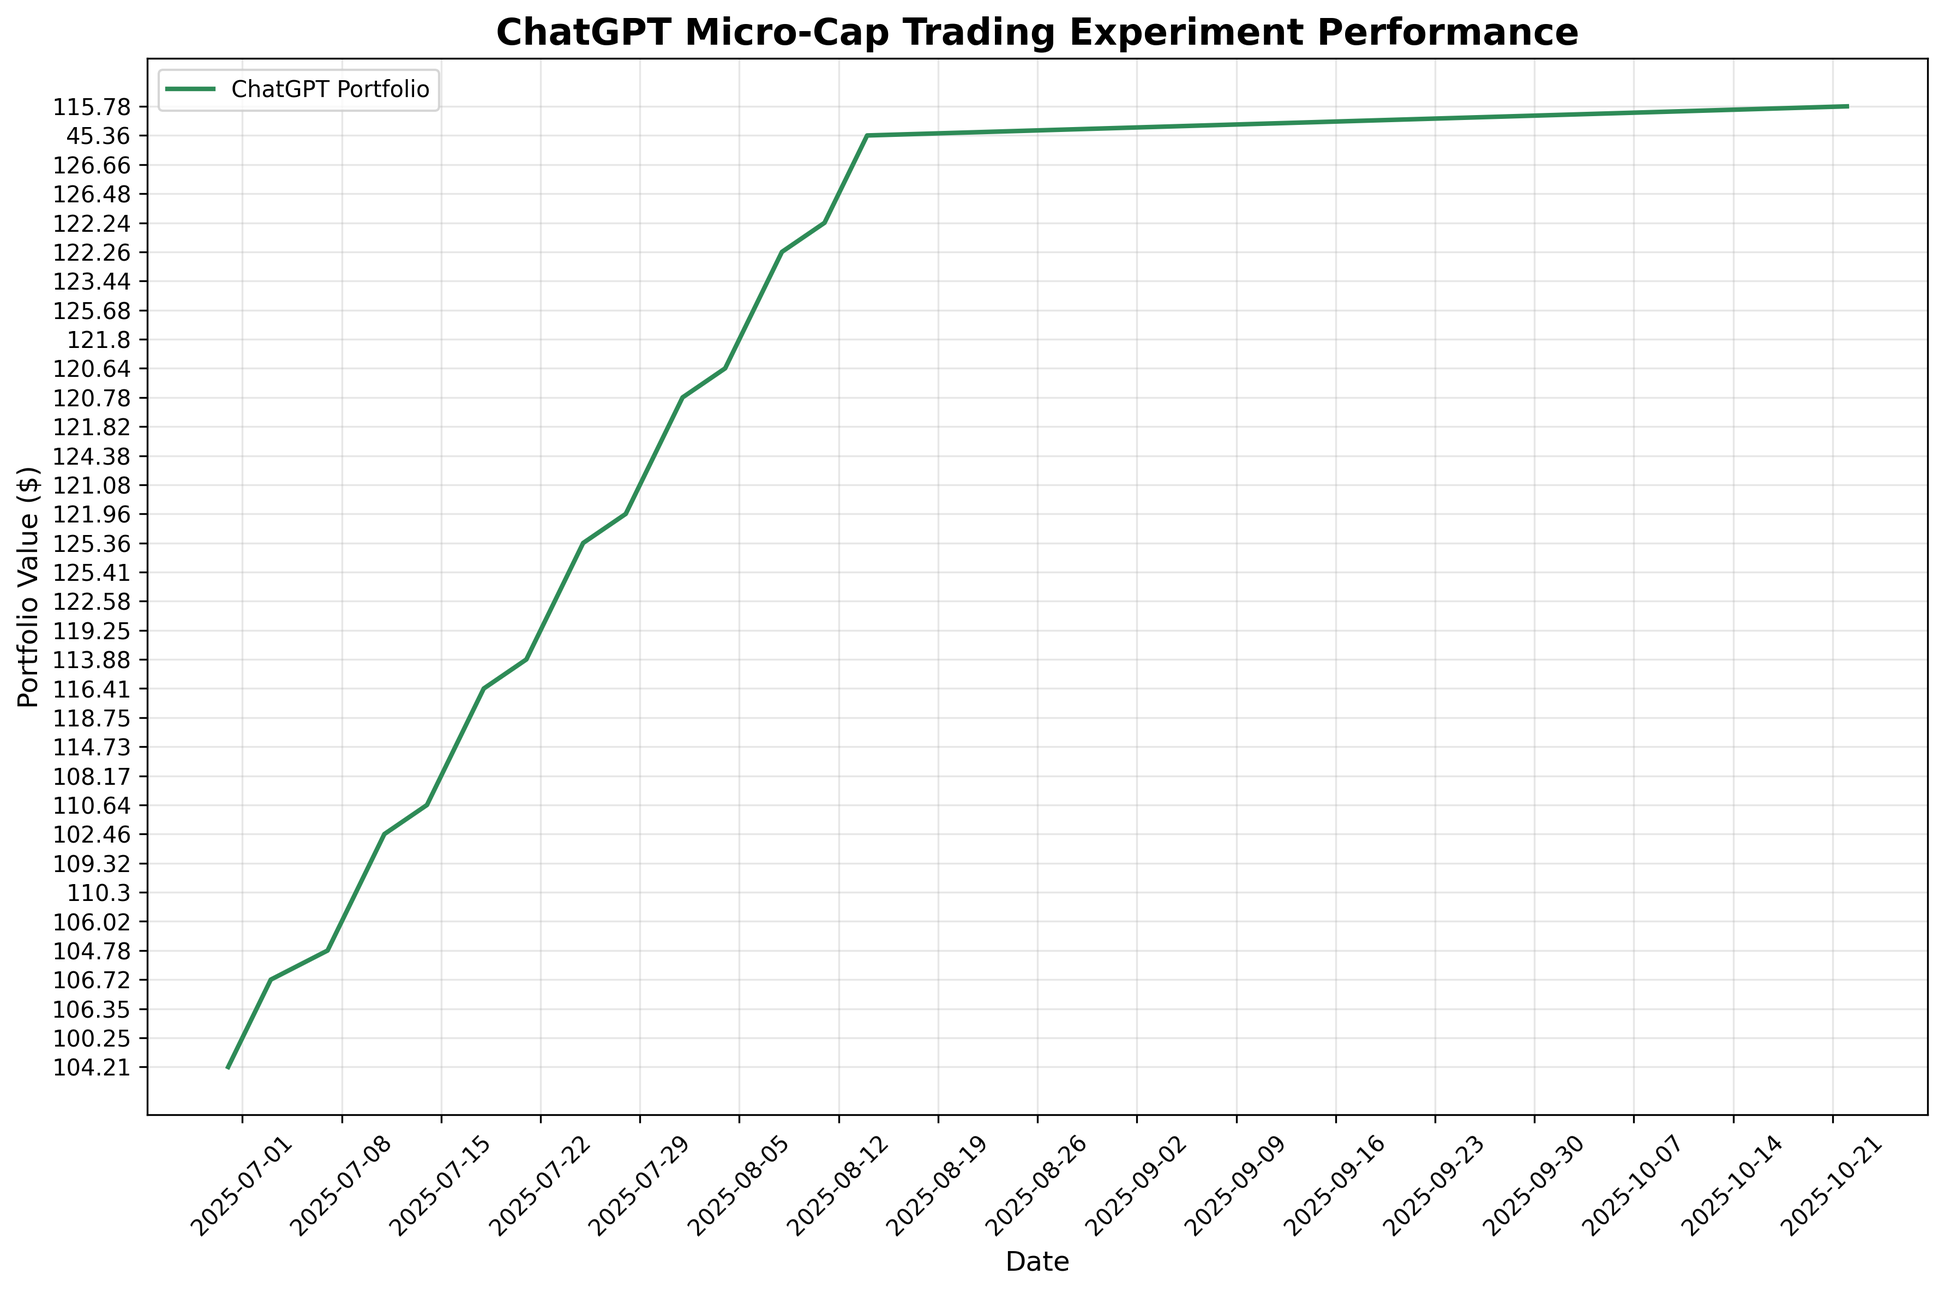
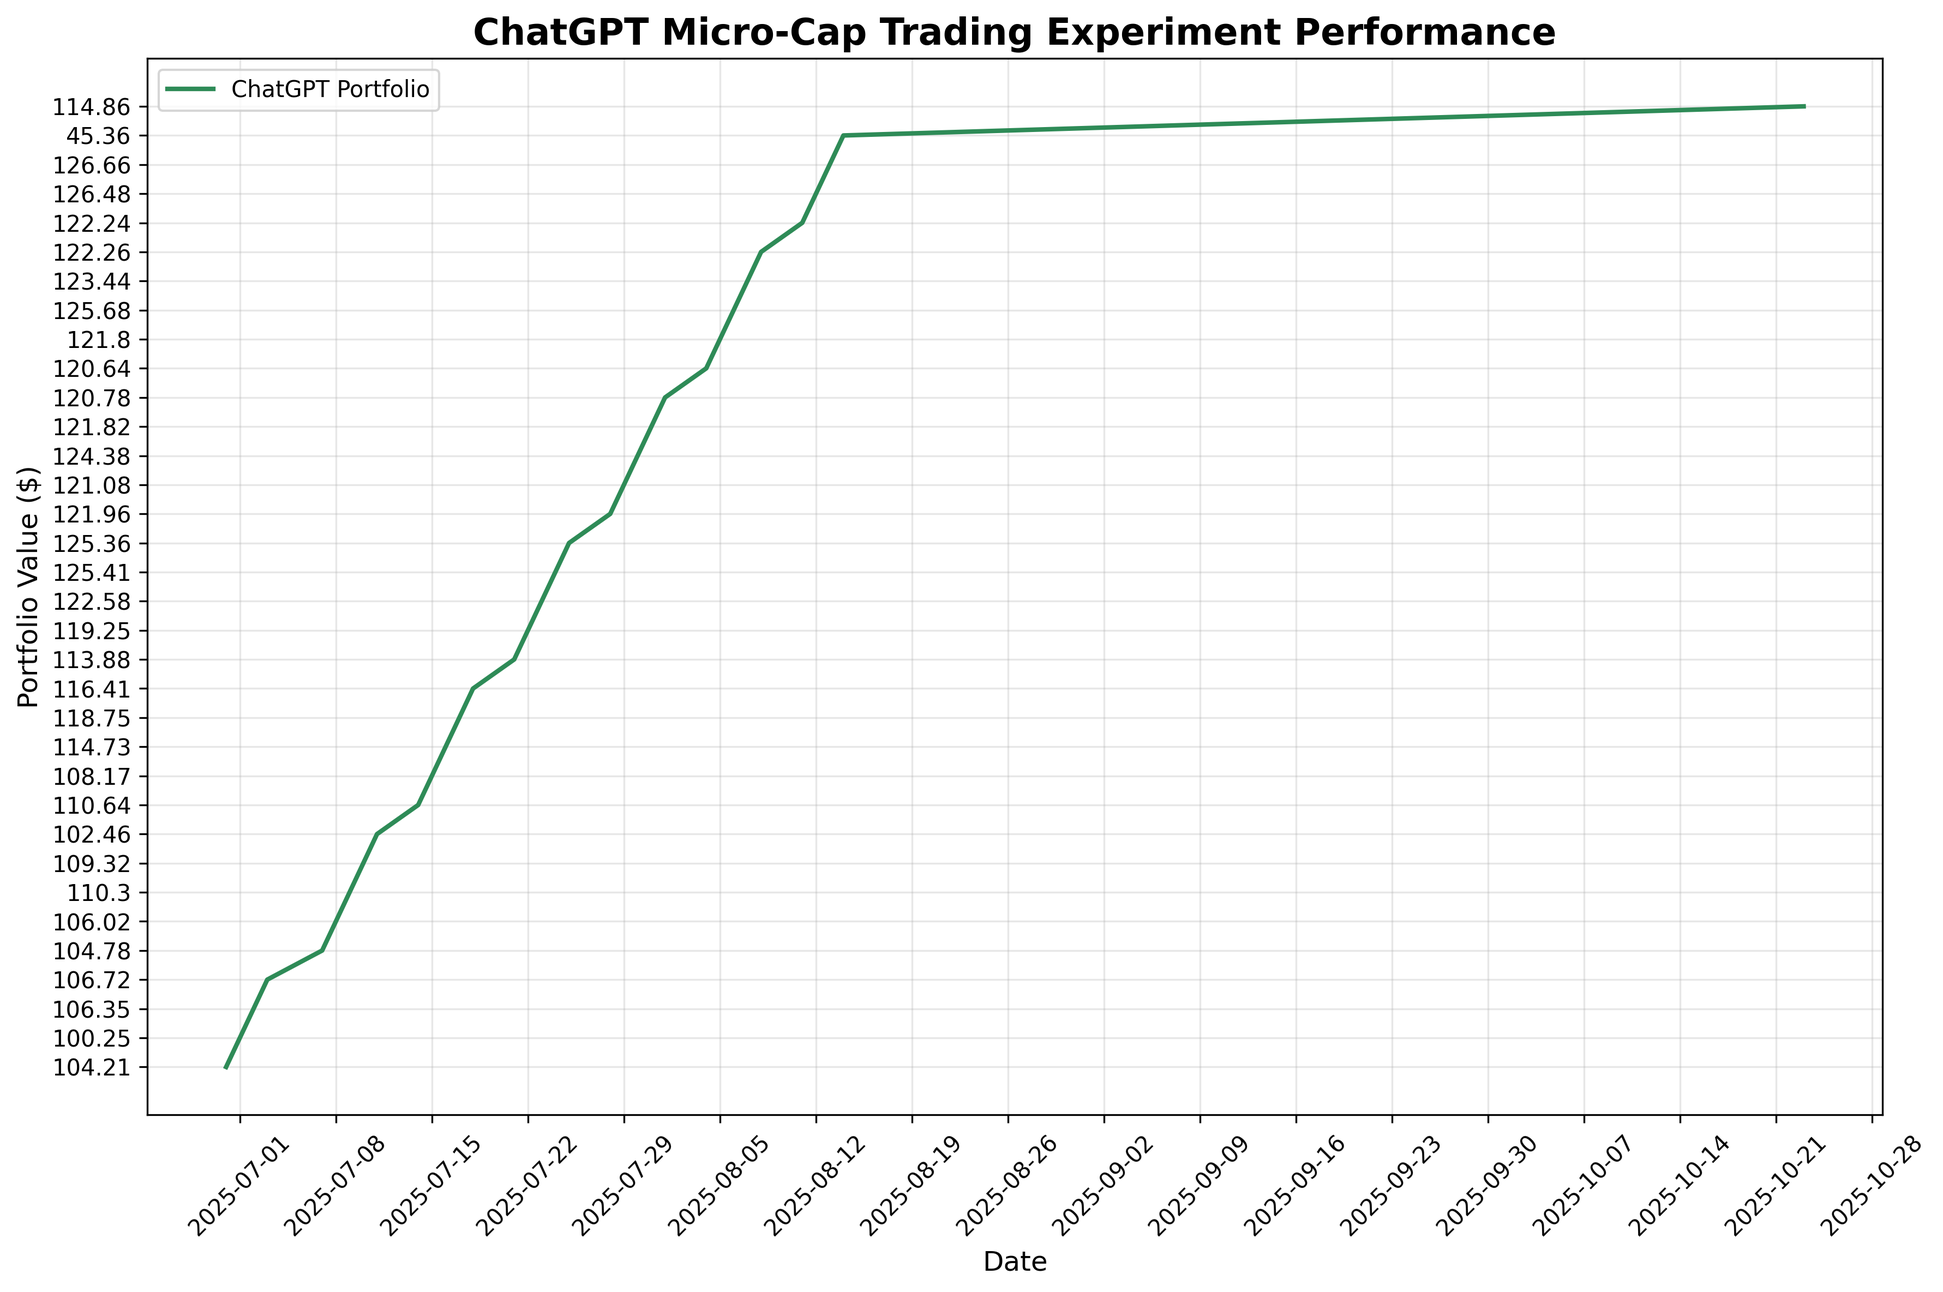
deploy: e15cad030d70fb3fbb51f9df6e22fa70c2f175c0

diff --git a/index.html b/index.html
@@ -105,7 +105,7 @@
                 <div class="stat-label">Total Trades</div>
             </div>
             <div class="stat-card">
-                <div class="stat-value" id="last-updated">2025-10-22</div>
+                <div class="stat-value" id="last-updated">2025-10-23</div>
                 <div class="stat-label">Last Updated</div>
             </div>
         </div>
@@ -160,7 +160,7 @@
     
     <script>
         // Portfolio data
-        const portfolioData = JSON.parse("[{&quot;Date&quot;: &quot;2025-08-11&quot;, &quot;Ticker&quot;: &quot;ABEO&quot;, &quot;Shares&quot;: 4.0, &quot;Buy Price&quot;: 5.77, &quot;Cost Basis&quot;: 23.08, &quot;Stop Loss&quot;: 4.9, &quot;Current Price&quot;: 6.28, &quot;Total Value&quot;: 25.12, &quot;PnL&quot;: 2.04, &quot;Action&quot;: &quot;HOLD&quot;, &quot;Cash Balance&quot;: NaN, &quot;Total Equity&quot;: NaN}, {&quot;Date&quot;: &quot;2025-08-11&quot;, &quot;Ticker&quot;: &quot;ACTU&quot;, &quot;Shares&quot;: 6.0, &quot;Buy Price&quot;: 5.75, &quot;Cost Basis&quot;: 34.5, &quot;Stop Loss&quot;: 4.89, &quot;Current Price&quot;: 8.01, &quot;Total Value&quot;: 48.06, &quot;PnL&quot;: 13.56, &quot;Action&quot;: &quot;HOLD&quot;, &quot;Cash Balance&quot;: NaN, &quot;Total Equity&quot;: NaN}, {&quot;Date&quot;: &quot;2025-08-11&quot;, &quot;Ticker&quot;: &quot;ESPR&quot;, &quot;Shares&quot;: 2.0, &quot;Buy Price&quot;: 1.91, &quot;Cost Basis&quot;: 3.82, &quot;Stop Loss&quot;: 1.6, &quot;Current Price&quot;: 1.85, &quot;Total Value&quot;: 3.7, &quot;PnL&quot;: -0.12, &quot;Action&quot;: &quot;HOLD&quot;, &quot;Cash Balance&quot;: NaN, &quot;Total Equity&quot;: NaN}, {&quot;Date&quot;: &quot;2025-08-11&quot;, &quot;Ticker&quot;: &quot;TOTAL&quot;, &quot;Shares&quot;: NaN, &quot;Buy Price&quot;: NaN, &quot;Cost Basis&quot;: NaN, &quot;Stop Loss&quot;: NaN, &quot;Current Price&quot;: NaN, &quot;Total Value&quot;: 76.88, &quot;PnL&quot;: 15.48, &quot;Action&quot;: NaN, &quot;Cash Balance&quot;: 45.36, &quot;Total Equity&quot;: &quot;122.24&quot;}, {&quot;Date&quot;: &quot;2025-08-12&quot;, &quot;Ticker&quot;: &quot;ABEO&quot;, &quot;Shares&quot;: 4.0, &quot;Buy Price&quot;: 5.77, &quot;Cost Basis&quot;: 23.08, &quot;Stop Loss&quot;: 4.9, &quot;Current Price&quot;: 6.38, &quot;Total Value&quot;: 25.52, &quot;PnL&quot;: 2.44, &quot;Action&quot;: &quot;HOLD&quot;, &quot;Cash Balance&quot;: NaN, &quot;Total Equity&quot;: NaN}, {&quot;Date&quot;: &quot;2025-08-12&quot;, &quot;Ticker&quot;: &quot;ACTU&quot;, &quot;Shares&quot;: 6.0, &quot;Buy Price&quot;: 5.75, &quot;Cost Basis&quot;: 34.5, &quot;Stop Loss&quot;: 4.89, &quot;Current Price&quot;: 8.67, &quot;Total Value&quot;: 52.02, &quot;PnL&quot;: 17.52, &quot;Action&quot;: &quot;HOLD&quot;, &quot;Cash Balance&quot;: NaN, &quot;Total Equity&quot;: NaN}, {&quot;Date&quot;: &quot;2025-08-12&quot;, &quot;Ticker&quot;: &quot;ESPR&quot;, &quot;Shares&quot;: 2.0, &quot;Buy Price&quot;: 1.91, &quot;Cost Basis&quot;: 3.82, &quot;Stop Loss&quot;: 1.6, &quot;Current Price&quot;: 1.79, &quot;Total Value&quot;: 3.58, &quot;PnL&quot;: -0.24, &quot;Action&quot;: &quot;HOLD&quot;, &quot;Cash Balance&quot;: NaN, &quot;Total Equity&quot;: NaN}, {&quot;Date&quot;: &quot;2025-08-12&quot;, &quot;Ticker&quot;: &quot;TOTAL&quot;, &quot;Shares&quot;: NaN, &quot;Buy Price&quot;: NaN, &quot;Cost Basis&quot;: NaN, &quot;Stop Loss&quot;: NaN, &quot;Current Price&quot;: NaN, &quot;Total Value&quot;: 81.12, &quot;PnL&quot;: 19.72, &quot;Action&quot;: NaN, &quot;Cash Balance&quot;: 45.36, &quot;Total Equity&quot;: &quot;126.48&quot;}, {&quot;Date&quot;: &quot;2025-08-13&quot;, &quot;Ticker&quot;: &quot;ABEO&quot;, &quot;Shares&quot;: 4.0, &quot;Buy Price&quot;: 5.77, &quot;Cost Basis&quot;: 23.08, &quot;Stop Loss&quot;: 4.9, &quot;Current Price&quot;: 6.56, &quot;Total Value&quot;: 26.24, &quot;PnL&quot;: 3.16, &quot;Action&quot;: &quot;HOLD&quot;, &quot;Cash Balance&quot;: NaN, &quot;Total Equity&quot;: NaN}, {&quot;Date&quot;: &quot;2025-08-13&quot;, &quot;Ticker&quot;: &quot;ACTU&quot;, &quot;Shares&quot;: 6.0, &quot;Buy Price&quot;: 5.75, &quot;Cost Basis&quot;: 34.5, &quot;Stop Loss&quot;: 4.89, &quot;Current Price&quot;: 8.53, &quot;Total Value&quot;: 51.18, &quot;PnL&quot;: 16.68, &quot;Action&quot;: &quot;HOLD&quot;, &quot;Cash Balance&quot;: NaN, &quot;Total Equity&quot;: NaN}, {&quot;Date&quot;: &quot;2025-08-13&quot;, &quot;Ticker&quot;: &quot;ESPR&quot;, &quot;Shares&quot;: 2.0, &quot;Buy Price&quot;: 1.91, &quot;Cost Basis&quot;: 3.82, &quot;Stop Loss&quot;: 1.6, &quot;Current Price&quot;: 1.94, &quot;Total Value&quot;: 3.88, &quot;PnL&quot;: 0.06, &quot;Action&quot;: &quot;HOLD&quot;, &quot;Cash Balance&quot;: NaN, &quot;Total Equity&quot;: NaN}, {&quot;Date&quot;: &quot;2025-08-13&quot;, &quot;Ticker&quot;: &quot;TOTAL&quot;, &quot;Shares&quot;: NaN, &quot;Buy Price&quot;: NaN, &quot;Cost Basis&quot;: NaN, &quot;Stop Loss&quot;: NaN, &quot;Current Price&quot;: NaN, &quot;Total Value&quot;: 81.3, &quot;PnL&quot;: 19.9, &quot;Action&quot;: NaN, &quot;Cash Balance&quot;: 45.36, &quot;Total Equity&quot;: &quot;126.66&quot;}, {&quot;Date&quot;: &quot;2025-08-14&quot;, &quot;Ticker&quot;: &quot;ABEO&quot;, &quot;Shares&quot;: 4.0, &quot;Buy Price&quot;: 5.77, &quot;Cost Basis&quot;: 23.08, &quot;Stop Loss&quot;: 4.9, &quot;Current Price&quot;: NaN, &quot;Total Value&quot;: NaN, &quot;PnL&quot;: NaN, &quot;Action&quot;: &quot;NO DATA&quot;, &quot;Cash Balance&quot;: NaN, &quot;Total Equity&quot;: NaN}, {&quot;Date&quot;: &quot;2025-08-14&quot;, &quot;Ticker&quot;: &quot;ACTU&quot;, &quot;Shares&quot;: 6.0, &quot;Buy Price&quot;: 5.75, &quot;Cost Basis&quot;: 34.5, &quot;Stop Loss&quot;: 4.89, &quot;Current Price&quot;: NaN, &quot;Total Value&quot;: NaN, &quot;PnL&quot;: NaN, &quot;Action&quot;: &quot;NO DATA&quot;, &quot;Cash Balance&quot;: NaN, &quot;Total Equity&quot;: NaN}, {&quot;Date&quot;: &quot;2025-08-14&quot;, &quot;Ticker&quot;: &quot;ESPR&quot;, &quot;Shares&quot;: 2.0, &quot;Buy Price&quot;: 1.91, &quot;Cost Basis&quot;: 3.82, &quot;Stop Loss&quot;: 1.6, &quot;Current Price&quot;: NaN, &quot;Total Value&quot;: NaN, &quot;PnL&quot;: NaN, &quot;Action&quot;: &quot;NO DATA&quot;, &quot;Cash Balance&quot;: NaN, &quot;Total Equity&quot;: NaN}, {&quot;Date&quot;: &quot;2025-08-14&quot;, &quot;Ticker&quot;: &quot;TOTAL&quot;, &quot;Shares&quot;: NaN, &quot;Buy Price&quot;: NaN, &quot;Cost Basis&quot;: NaN, &quot;Stop Loss&quot;: NaN, &quot;Current Price&quot;: NaN, &quot;Total Value&quot;: 0.0, &quot;PnL&quot;: 0.0, &quot;Action&quot;: NaN, &quot;Cash Balance&quot;: 45.36, &quot;Total Equity&quot;: &quot;45.36&quot;}, {&quot;Date&quot;: &quot;2025-10-22&quot;, &quot;Ticker&quot;: &quot;ABEO&quot;, &quot;Shares&quot;: 4.0, &quot;Buy Price&quot;: 5.77, &quot;Cost Basis&quot;: 23.08, &quot;Stop Loss&quot;: 4.9, &quot;Current Price&quot;: 5.4, &quot;Total Value&quot;: 21.6, &quot;PnL&quot;: -1.48, &quot;Action&quot;: &quot;HOLD&quot;, &quot;Cash Balance&quot;: NaN, &quot;Total Equity&quot;: NaN}, {&quot;Date&quot;: &quot;2025-10-22&quot;, &quot;Ticker&quot;: &quot;ACTU&quot;, &quot;Shares&quot;: 6.0, &quot;Buy Price&quot;: 5.75, &quot;Cost Basis&quot;: 34.5, &quot;Stop Loss&quot;: 4.89, &quot;Current Price&quot;: 7.23, &quot;Total Value&quot;: 43.38, &quot;PnL&quot;: 8.88, &quot;Action&quot;: &quot;HOLD&quot;, &quot;Cash Balance&quot;: NaN, &quot;Total Equity&quot;: NaN}, {&quot;Date&quot;: &quot;2025-10-22&quot;, &quot;Ticker&quot;: &quot;ESPR&quot;, &quot;Shares&quot;: 2.0, &quot;Buy Price&quot;: 1.91, &quot;Cost Basis&quot;: 3.82, &quot;Stop Loss&quot;: 1.6, &quot;Current Price&quot;: 2.72, &quot;Total Value&quot;: 5.44, &quot;PnL&quot;: 1.62, &quot;Action&quot;: &quot;HOLD&quot;, &quot;Cash Balance&quot;: NaN, &quot;Total Equity&quot;: NaN}, {&quot;Date&quot;: &quot;2025-10-22&quot;, &quot;Ticker&quot;: &quot;TOTAL&quot;, &quot;Shares&quot;: NaN, &quot;Buy Price&quot;: NaN, &quot;Cost Basis&quot;: NaN, &quot;Stop Loss&quot;: NaN, &quot;Current Price&quot;: NaN, &quot;Total Value&quot;: 70.42, &quot;PnL&quot;: 9.02, &quot;Action&quot;: NaN, &quot;Cash Balance&quot;: 45.36, &quot;Total Equity&quot;: &quot;115.78&quot;}]");
+        const portfolioData = JSON.parse("[{&quot;Date&quot;: &quot;2025-08-11&quot;, &quot;Ticker&quot;: &quot;ABEO&quot;, &quot;Shares&quot;: 4.0, &quot;Buy Price&quot;: 5.77, &quot;Cost Basis&quot;: 23.08, &quot;Stop Loss&quot;: 4.9, &quot;Current Price&quot;: 6.28, &quot;Total Value&quot;: 25.12, &quot;PnL&quot;: 2.04, &quot;Action&quot;: &quot;HOLD&quot;, &quot;Cash Balance&quot;: NaN, &quot;Total Equity&quot;: NaN}, {&quot;Date&quot;: &quot;2025-08-11&quot;, &quot;Ticker&quot;: &quot;ACTU&quot;, &quot;Shares&quot;: 6.0, &quot;Buy Price&quot;: 5.75, &quot;Cost Basis&quot;: 34.5, &quot;Stop Loss&quot;: 4.89, &quot;Current Price&quot;: 8.01, &quot;Total Value&quot;: 48.06, &quot;PnL&quot;: 13.56, &quot;Action&quot;: &quot;HOLD&quot;, &quot;Cash Balance&quot;: NaN, &quot;Total Equity&quot;: NaN}, {&quot;Date&quot;: &quot;2025-08-11&quot;, &quot;Ticker&quot;: &quot;ESPR&quot;, &quot;Shares&quot;: 2.0, &quot;Buy Price&quot;: 1.91, &quot;Cost Basis&quot;: 3.82, &quot;Stop Loss&quot;: 1.6, &quot;Current Price&quot;: 1.85, &quot;Total Value&quot;: 3.7, &quot;PnL&quot;: -0.12, &quot;Action&quot;: &quot;HOLD&quot;, &quot;Cash Balance&quot;: NaN, &quot;Total Equity&quot;: NaN}, {&quot;Date&quot;: &quot;2025-08-11&quot;, &quot;Ticker&quot;: &quot;TOTAL&quot;, &quot;Shares&quot;: NaN, &quot;Buy Price&quot;: NaN, &quot;Cost Basis&quot;: NaN, &quot;Stop Loss&quot;: NaN, &quot;Current Price&quot;: NaN, &quot;Total Value&quot;: 76.88, &quot;PnL&quot;: 15.48, &quot;Action&quot;: NaN, &quot;Cash Balance&quot;: 45.36, &quot;Total Equity&quot;: &quot;122.24&quot;}, {&quot;Date&quot;: &quot;2025-08-12&quot;, &quot;Ticker&quot;: &quot;ABEO&quot;, &quot;Shares&quot;: 4.0, &quot;Buy Price&quot;: 5.77, &quot;Cost Basis&quot;: 23.08, &quot;Stop Loss&quot;: 4.9, &quot;Current Price&quot;: 6.38, &quot;Total Value&quot;: 25.52, &quot;PnL&quot;: 2.44, &quot;Action&quot;: &quot;HOLD&quot;, &quot;Cash Balance&quot;: NaN, &quot;Total Equity&quot;: NaN}, {&quot;Date&quot;: &quot;2025-08-12&quot;, &quot;Ticker&quot;: &quot;ACTU&quot;, &quot;Shares&quot;: 6.0, &quot;Buy Price&quot;: 5.75, &quot;Cost Basis&quot;: 34.5, &quot;Stop Loss&quot;: 4.89, &quot;Current Price&quot;: 8.67, &quot;Total Value&quot;: 52.02, &quot;PnL&quot;: 17.52, &quot;Action&quot;: &quot;HOLD&quot;, &quot;Cash Balance&quot;: NaN, &quot;Total Equity&quot;: NaN}, {&quot;Date&quot;: &quot;2025-08-12&quot;, &quot;Ticker&quot;: &quot;ESPR&quot;, &quot;Shares&quot;: 2.0, &quot;Buy Price&quot;: 1.91, &quot;Cost Basis&quot;: 3.82, &quot;Stop Loss&quot;: 1.6, &quot;Current Price&quot;: 1.79, &quot;Total Value&quot;: 3.58, &quot;PnL&quot;: -0.24, &quot;Action&quot;: &quot;HOLD&quot;, &quot;Cash Balance&quot;: NaN, &quot;Total Equity&quot;: NaN}, {&quot;Date&quot;: &quot;2025-08-12&quot;, &quot;Ticker&quot;: &quot;TOTAL&quot;, &quot;Shares&quot;: NaN, &quot;Buy Price&quot;: NaN, &quot;Cost Basis&quot;: NaN, &quot;Stop Loss&quot;: NaN, &quot;Current Price&quot;: NaN, &quot;Total Value&quot;: 81.12, &quot;PnL&quot;: 19.72, &quot;Action&quot;: NaN, &quot;Cash Balance&quot;: 45.36, &quot;Total Equity&quot;: &quot;126.48&quot;}, {&quot;Date&quot;: &quot;2025-08-13&quot;, &quot;Ticker&quot;: &quot;ABEO&quot;, &quot;Shares&quot;: 4.0, &quot;Buy Price&quot;: 5.77, &quot;Cost Basis&quot;: 23.08, &quot;Stop Loss&quot;: 4.9, &quot;Current Price&quot;: 6.56, &quot;Total Value&quot;: 26.24, &quot;PnL&quot;: 3.16, &quot;Action&quot;: &quot;HOLD&quot;, &quot;Cash Balance&quot;: NaN, &quot;Total Equity&quot;: NaN}, {&quot;Date&quot;: &quot;2025-08-13&quot;, &quot;Ticker&quot;: &quot;ACTU&quot;, &quot;Shares&quot;: 6.0, &quot;Buy Price&quot;: 5.75, &quot;Cost Basis&quot;: 34.5, &quot;Stop Loss&quot;: 4.89, &quot;Current Price&quot;: 8.53, &quot;Total Value&quot;: 51.18, &quot;PnL&quot;: 16.68, &quot;Action&quot;: &quot;HOLD&quot;, &quot;Cash Balance&quot;: NaN, &quot;Total Equity&quot;: NaN}, {&quot;Date&quot;: &quot;2025-08-13&quot;, &quot;Ticker&quot;: &quot;ESPR&quot;, &quot;Shares&quot;: 2.0, &quot;Buy Price&quot;: 1.91, &quot;Cost Basis&quot;: 3.82, &quot;Stop Loss&quot;: 1.6, &quot;Current Price&quot;: 1.94, &quot;Total Value&quot;: 3.88, &quot;PnL&quot;: 0.06, &quot;Action&quot;: &quot;HOLD&quot;, &quot;Cash Balance&quot;: NaN, &quot;Total Equity&quot;: NaN}, {&quot;Date&quot;: &quot;2025-08-13&quot;, &quot;Ticker&quot;: &quot;TOTAL&quot;, &quot;Shares&quot;: NaN, &quot;Buy Price&quot;: NaN, &quot;Cost Basis&quot;: NaN, &quot;Stop Loss&quot;: NaN, &quot;Current Price&quot;: NaN, &quot;Total Value&quot;: 81.3, &quot;PnL&quot;: 19.9, &quot;Action&quot;: NaN, &quot;Cash Balance&quot;: 45.36, &quot;Total Equity&quot;: &quot;126.66&quot;}, {&quot;Date&quot;: &quot;2025-08-14&quot;, &quot;Ticker&quot;: &quot;ABEO&quot;, &quot;Shares&quot;: 4.0, &quot;Buy Price&quot;: 5.77, &quot;Cost Basis&quot;: 23.08, &quot;Stop Loss&quot;: 4.9, &quot;Current Price&quot;: NaN, &quot;Total Value&quot;: NaN, &quot;PnL&quot;: NaN, &quot;Action&quot;: &quot;NO DATA&quot;, &quot;Cash Balance&quot;: NaN, &quot;Total Equity&quot;: NaN}, {&quot;Date&quot;: &quot;2025-08-14&quot;, &quot;Ticker&quot;: &quot;ACTU&quot;, &quot;Shares&quot;: 6.0, &quot;Buy Price&quot;: 5.75, &quot;Cost Basis&quot;: 34.5, &quot;Stop Loss&quot;: 4.89, &quot;Current Price&quot;: NaN, &quot;Total Value&quot;: NaN, &quot;PnL&quot;: NaN, &quot;Action&quot;: &quot;NO DATA&quot;, &quot;Cash Balance&quot;: NaN, &quot;Total Equity&quot;: NaN}, {&quot;Date&quot;: &quot;2025-08-14&quot;, &quot;Ticker&quot;: &quot;ESPR&quot;, &quot;Shares&quot;: 2.0, &quot;Buy Price&quot;: 1.91, &quot;Cost Basis&quot;: 3.82, &quot;Stop Loss&quot;: 1.6, &quot;Current Price&quot;: NaN, &quot;Total Value&quot;: NaN, &quot;PnL&quot;: NaN, &quot;Action&quot;: &quot;NO DATA&quot;, &quot;Cash Balance&quot;: NaN, &quot;Total Equity&quot;: NaN}, {&quot;Date&quot;: &quot;2025-08-14&quot;, &quot;Ticker&quot;: &quot;TOTAL&quot;, &quot;Shares&quot;: NaN, &quot;Buy Price&quot;: NaN, &quot;Cost Basis&quot;: NaN, &quot;Stop Loss&quot;: NaN, &quot;Current Price&quot;: NaN, &quot;Total Value&quot;: 0.0, &quot;PnL&quot;: 0.0, &quot;Action&quot;: NaN, &quot;Cash Balance&quot;: 45.36, &quot;Total Equity&quot;: &quot;45.36&quot;}, {&quot;Date&quot;: &quot;2025-10-23&quot;, &quot;Ticker&quot;: &quot;ABEO&quot;, &quot;Shares&quot;: 4.0, &quot;Buy Price&quot;: 5.77, &quot;Cost Basis&quot;: 23.08, &quot;Stop Loss&quot;: 4.9, &quot;Current Price&quot;: 5.38, &quot;Total Value&quot;: 21.52, &quot;PnL&quot;: -1.56, &quot;Action&quot;: &quot;HOLD&quot;, &quot;Cash Balance&quot;: NaN, &quot;Total Equity&quot;: NaN}, {&quot;Date&quot;: &quot;2025-10-23&quot;, &quot;Ticker&quot;: &quot;ACTU&quot;, &quot;Shares&quot;: 6.0, &quot;Buy Price&quot;: 5.75, &quot;Cost Basis&quot;: 34.5, &quot;Stop Loss&quot;: 4.89, &quot;Current Price&quot;: 7.1, &quot;Total Value&quot;: 42.6, &quot;PnL&quot;: 8.1, &quot;Action&quot;: &quot;HOLD&quot;, &quot;Cash Balance&quot;: NaN, &quot;Total Equity&quot;: NaN}, {&quot;Date&quot;: &quot;2025-10-23&quot;, &quot;Ticker&quot;: &quot;ESPR&quot;, &quot;Shares&quot;: 2.0, &quot;Buy Price&quot;: 1.91, &quot;Cost Basis&quot;: 3.82, &quot;Stop Loss&quot;: 1.6, &quot;Current Price&quot;: 2.69, &quot;Total Value&quot;: 5.38, &quot;PnL&quot;: 1.56, &quot;Action&quot;: &quot;HOLD&quot;, &quot;Cash Balance&quot;: NaN, &quot;Total Equity&quot;: NaN}, {&quot;Date&quot;: &quot;2025-10-23&quot;, &quot;Ticker&quot;: &quot;TOTAL&quot;, &quot;Shares&quot;: NaN, &quot;Buy Price&quot;: NaN, &quot;Cost Basis&quot;: NaN, &quot;Stop Loss&quot;: NaN, &quot;Current Price&quot;: NaN, &quot;Total Value&quot;: 69.5, &quot;PnL&quot;: 8.1, &quot;Action&quot;: NaN, &quot;Cash Balance&quot;: 45.36, &quot;Total Equity&quot;: &quot;114.86&quot;}]");
         const tradeData = JSON.parse("[{&quot;Date&quot;: &quot;2025-07-07&quot;, &quot;Ticker&quot;: &quot;CSAI&quot;, &quot;Shares Bought&quot;: NaN, &quot;Buy Price&quot;: NaN, &quot;Cost Basis&quot;: 1.9, &quot;PnL&quot;: 5.7, &quot;Reason&quot;: &quot;MANUAL SELL - Rotated into AZTR&quot;, &quot;Shares Sold&quot;: 15.0, &quot;Sell Price&quot;: 2.28}, {&quot;Date&quot;: &quot;2025-07-08&quot;, &quot;Ticker&quot;: &quot;IINN&quot;, &quot;Shares Bought&quot;: 20.0, &quot;Buy Price&quot;: 1.5, &quot;Cost Basis&quot;: 30.0, &quot;PnL&quot;: 0.0, &quot;Reason&quot;: &quot;MANUAL BUY - New position&quot;, &quot;Shares Sold&quot;: NaN, &quot;Sell Price&quot;: NaN}, {&quot;Date&quot;: &quot;2025-07-21&quot;, &quot;Ticker&quot;: &quot;CADL&quot;, &quot;Shares Bought&quot;: NaN, &quot;Buy Price&quot;: NaN, &quot;Cost Basis&quot;: 25.2, &quot;PnL&quot;: 8.5, &quot;Reason&quot;: &quot;MANUAL SELL - GAIN CAPITAL FOR ACTU&quot;, &quot;Shares Sold&quot;: 5.0, &quot;Sell Price&quot;: 6.59}, {&quot;Date&quot;: &quot;2025-07-21&quot;, &quot;Ticker&quot;: &quot;ACTU&quot;, &quot;Shares Bought&quot;: 6.0, &quot;Buy Price&quot;: 5.75, &quot;Cost Basis&quot;: 34.5, &quot;PnL&quot;: 0.0, &quot;Reason&quot;: &quot;MANUAL BUY - New position&quot;, &quot;Shares Sold&quot;: NaN, &quot;Sell Price&quot;: NaN}, {&quot;Date&quot;: &quot;2025-07-28&quot;, &quot;Ticker&quot;: &quot;IINN&quot;, &quot;Shares Bought&quot;: NaN, &quot;Buy Price&quot;: NaN, &quot;Cost Basis&quot;: 9.0, &quot;PnL&quot;: -0.5400000000000009, &quot;Reason&quot;: &quot;MANUAL SELL - POSITION REDUCTION&quot;, &quot;Shares Sold&quot;: 6.0, &quot;Sell Price&quot;: 1.41}, {&quot;Date&quot;: &quot;2025-07-29&quot;, &quot;Ticker&quot;: &quot;AZTR&quot;, &quot;Shares Bought&quot;: NaN, &quot;Buy Price&quot;: NaN, &quot;Cost Basis&quot;: 13.75, &quot;PnL&quot;: -2.75, &quot;Reason&quot;: &quot;MANUAL SELL - DILUTION RISK&quot;, &quot;Shares Sold&quot;: 55.0, &quot;Sell Price&quot;: 0.2}, {&quot;Date&quot;: &quot;2025-08-01&quot;, &quot;Ticker&quot;: &quot;IINN&quot;, &quot;Shares Bought&quot;: 2.0, &quot;Buy Price&quot;: 1.74, &quot;Cost Basis&quot;: 3.48, &quot;PnL&quot;: 0.0, &quot;Reason&quot;: &quot;MANUAL BUY - New position&quot;, &quot;Shares Sold&quot;: NaN, &quot;Sell Price&quot;: NaN}, {&quot;Date&quot;: &quot;2025-08-01&quot;, &quot;Ticker&quot;: &quot;ABEO&quot;, &quot;Shares Bought&quot;: NaN, &quot;Buy Price&quot;: NaN, &quot;Cost Basis&quot;: 11.54, &quot;PnL&quot;: 1.200000000000001, &quot;Reason&quot;: &quot;MANUAL SELL - TRIM AFTER SUPPORT LOSS&quot;, &quot;Shares Sold&quot;: 2.0, &quot;Sell Price&quot;: 6.37}, {&quot;Date&quot;: &quot;2025-08-07&quot;, &quot;Ticker&quot;: &quot;ESPR&quot;, &quot;Shares Bought&quot;: 2.0, &quot;Buy Price&quot;: 1.91, &quot;Cost Basis&quot;: 3.82, &quot;PnL&quot;: 0.0, &quot;Reason&quot;: &quot;MANUAL BUY - New position&quot;, &quot;Shares Sold&quot;: NaN, &quot;Sell Price&quot;: NaN}, {&quot;Date&quot;: &quot;2025-08-08&quot;, &quot;Ticker&quot;: &quot;IINN&quot;, &quot;Shares Bought&quot;: NaN, &quot;Buy Price&quot;: NaN, &quot;Cost Basis&quot;: 1.5, &quot;PnL&quot;: -6.4, &quot;Reason&quot;: &quot;AUTOMATED SELL - STOPLOSS TRIGGERED&quot;, &quot;Shares Sold&quot;: 16.0, &quot;Sell Price&quot;: 1.1}]");
         
         // Update total equity
